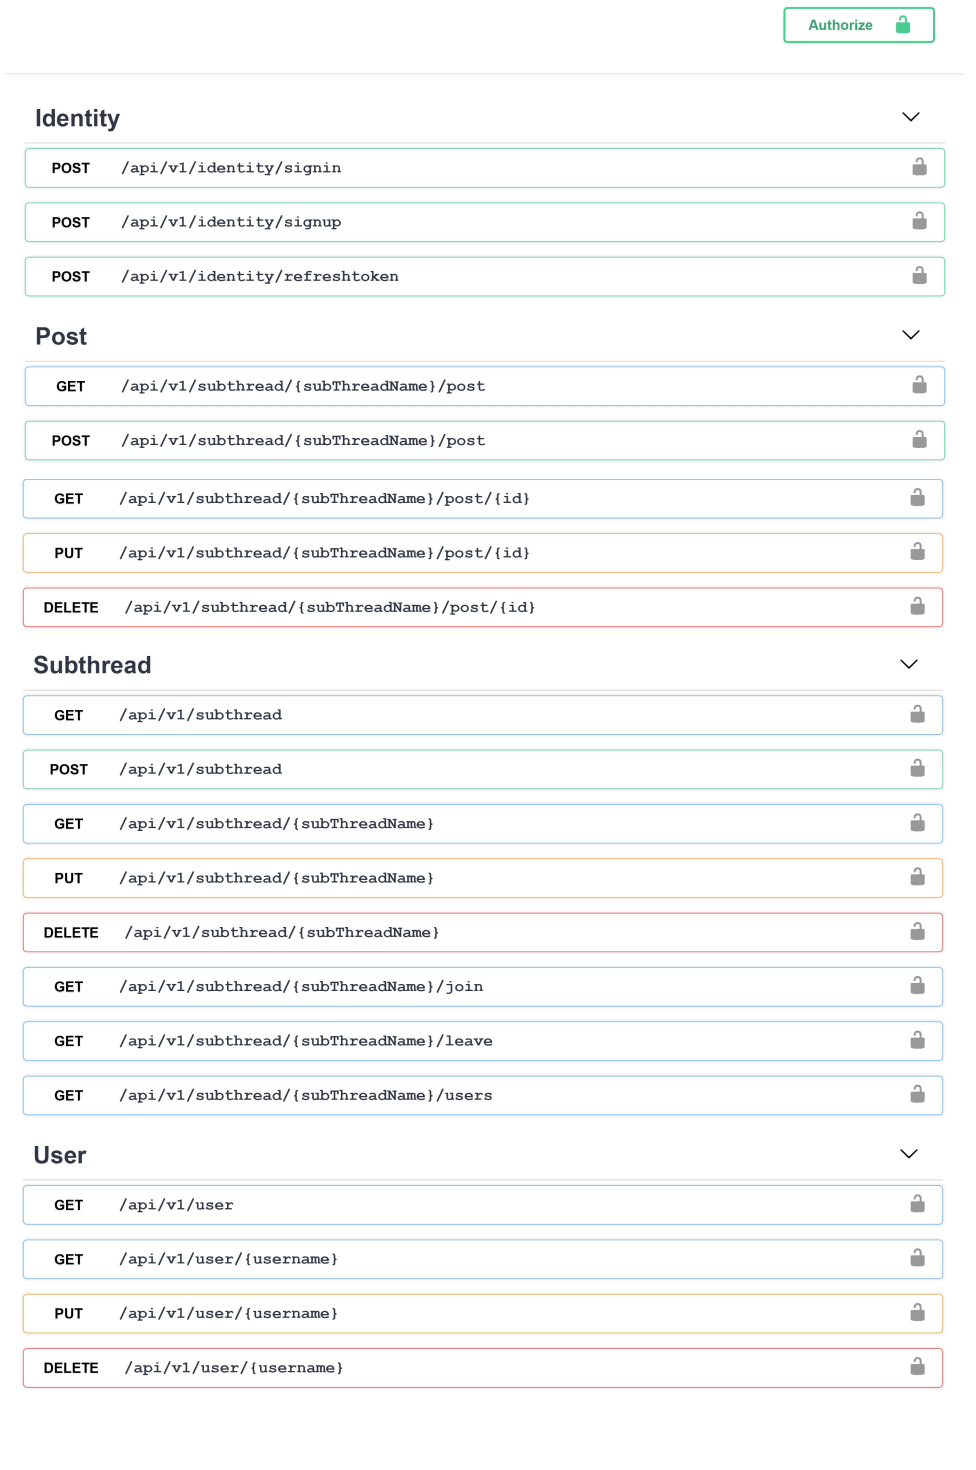
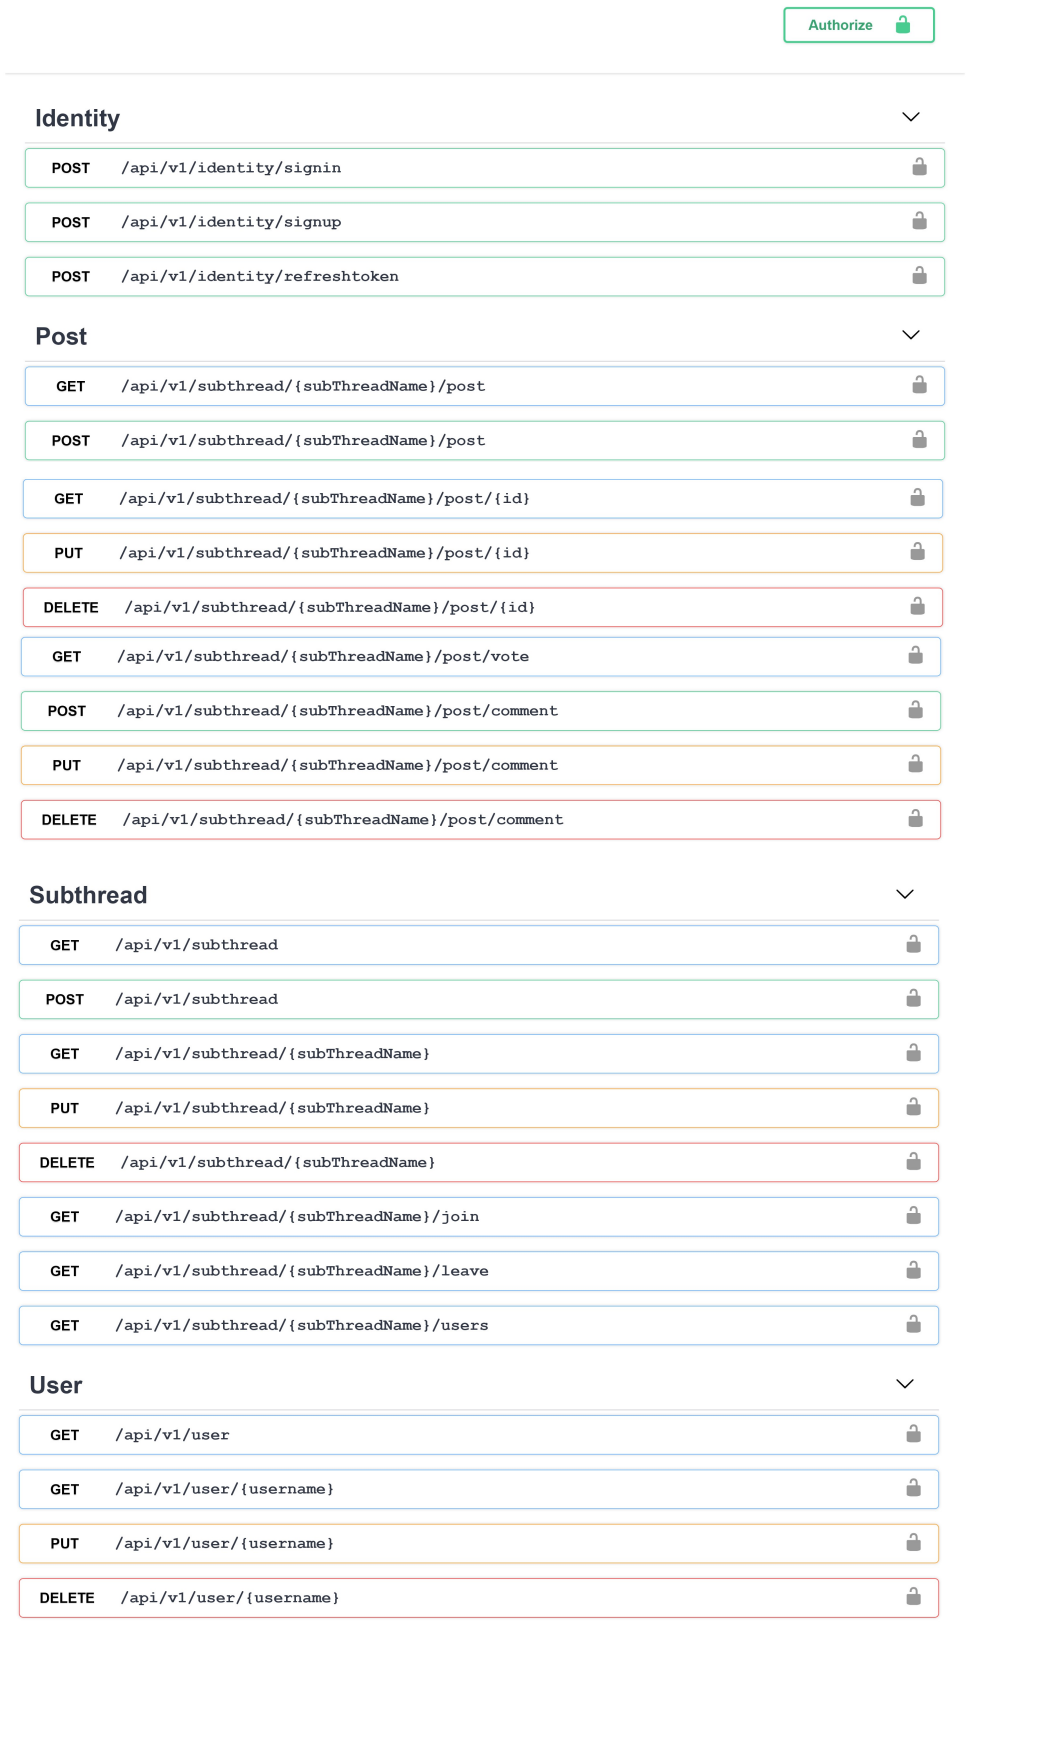
comment & vote api

diff --git a/CommunityDrivenSocialPlatform-Web API/Controllers/V1/PostController.cs b/CommunityDrivenSocialPlatform-Web API/Controllers/V1/PostController.cs
@@ -2,6 +2,7 @@
 using CDSP_API.Contracts.V1.Requests;
 using CDSP_API.Contracts.V1.Responses;
 using CDSP_API.misc;
+using CDSP_API.Model;
 using CDSP_API.Models;
 using CDSP_API.Services;
 using Microsoft.AspNetCore.Authorization;
@@ -20,11 +21,13 @@ namespace CDSP_API.Controllers.V1
         private readonly IUsersService _usersService;
         private readonly IPostService _postService;
         private readonly ILogger<IdentityController> _logger;
-        public PostController(IUsersService usersService, IPostService postService, ILogger<IdentityController> logger)
+        private readonly ICommentService _commentService;
+        public PostController(IUsersService usersService, IPostService postService, ICommentService commentService, ILogger<IdentityController> logger)
         {
             _logger = logger;
             _usersService = usersService;
             _postService = postService;
+            _commentService = commentService;
         }
 
         [HttpGet]
@@ -122,6 +125,68 @@ namespace CDSP_API.Controllers.V1
             return BadRequest(ApiConstant.GenericError);
         }
 
+        [Authorize]
+        [HttpGet(ApiRoutes.Controller.Action.Vote)]
+        public async Task<IActionResult> Vote([FromRoute] int id, [FromBody] VoteRequest voteRequest)
+        {
+            (var ecr, User loggedUser) = await _usersService.GetLoggedUser(User);
 
+            if(voteRequest.voteType == PostVoteEnum.UPVOTE)
+            {
+                await _postService.AddUpVoteAsync(id, loggedUser);
+            }
+            else if(voteRequest.voteType == PostVoteEnum.DOWNVOTE)
+            {
+                await _postService.AddDownVoteAsync(id, loggedUser);
+            }
+
+            _logger.LogError(ecr.ToString(id));
+            return BadRequest(ApiConstant.GenericError);
+        }
+
+        [Authorize]
+        [HttpPost(ApiRoutes.Controller.Action.Comment)]
+        public async Task<IActionResult> CreateComment([FromRoute] int id, [FromBody] CreateCommentRequest createCommentRequest)
+        {
+            (var ecr, User loggedUser) = await _usersService.GetLoggedUser(User);
+            (var _ecr, var comment) = await _commentService.CreateAsync(createCommentRequest.MapToModel(), loggedUser);
+
+            if (_ecr.IsSuccess)
+            {
+                return Ok(new CommentDetailsResponse().MapToReponse(comment));
+            }
+            _logger.LogError(ecr.ToString(id));
+            return BadRequest(ApiConstant.GenericError);
+        }
+
+        [Authorize]
+        [HttpPut(ApiRoutes.Controller.Action.Comment)]
+        public async Task<IActionResult> UpdateComment([FromRoute] int id, [FromBody] UpdateCommentRequest updateCommentRequest)
+        {
+            (var ecr, User loggedUser) = await _usersService.GetLoggedUser(User);
+            (var _ecr, var comment) = await _commentService.UpdateAsync(updateCommentRequest.MapToModel(), loggedUser);
+
+            if (_ecr.IsSuccess)
+            {
+                return Ok(new CommentDetailsResponse().MapToReponse(comment));
+            }
+            _logger.LogError(ecr.ToString(id));
+            return BadRequest(ApiConstant.GenericError);
+        }
+
+        [Authorize]
+        [HttpDelete(ApiRoutes.Controller.Action.Comment)]
+        public async Task<IActionResult> DeleteComment([FromRoute] int id)
+        {
+            (var ecr, User loggedUser) = await _usersService.GetLoggedUser(User);
+            var _ecr = await _commentService.DeleteByIdAsync(id, loggedUser);
+
+            if (_ecr.IsSuccess)
+            {
+                return Ok(ApiConstant.Post.Comment.Deleted);
+            }
+            _logger.LogError(ecr.ToString(id));
+            return BadRequest(ApiConstant.GenericError);
+        }
     }
 }

diff --git a/CommunityDrivenSocialPlatform-Web API/Services/CommentService.cs b/CommunityDrivenSocialPlatform-Web API/Services/CommentService.cs
@@ -41,14 +41,17 @@ namespace CDSP_API.Services
             return (ecr, comment); 
         }
 
-        public async Task<EnityCoreResult> DeleteByIdAsync(int id)
+        public async Task<EnityCoreResult> DeleteByIdAsync(int id, User user)
         {
             EnityCoreResult ecr = new EnityCoreResult();
             try
             {
                 (var _ecr, var comment) = await GetByIdAsync(id);
-                _dataContext.Comment.Remove(comment);
-                await _dataContext.SaveChangesAsync();
+                if(comment.UserId == user.Id)
+                {
+                    _dataContext.Comment.Remove(comment);
+                    await _dataContext.SaveChangesAsync();
+                }
             }
             catch (Exception ex)
             {
@@ -90,15 +93,19 @@ namespace CDSP_API.Services
             return (ecr, comment);
         }
 
-        public async Task<(EnityCoreResult, Comment)> UpdateAsync(Comment comment)
+        public async Task<(EnityCoreResult, Comment)> UpdateAsync(Comment comment, User user)
         {
             EnityCoreResult ecr = new EnityCoreResult();
             try
             {
                 (var _ecr, var _comment) = await GetByIdAsync(comment.Id);
-                _comment.Body=comment.Body;
-                _dataContext.Comment.Update(_comment);
-                await _dataContext.SaveChangesAsync();
+                if (comment.UserId == user.Id)
+                {
+                    _comment.Body = comment.Body;
+                    _dataContext.Comment.Update(_comment);
+                    await _dataContext.SaveChangesAsync();
+                }
+
             }
             catch (Exception ex)
             {

diff --git a/CommunityDrivenSocialPlatform-Web API/Contracts/V1/Requests/CreateCommentRequest.cs b/CommunityDrivenSocialPlatform-Web API/Contracts/V1/Requests/CreateCommentRequest.cs
@@ -1,0 +1,31 @@
+using CDSP_API.Models;
+using CDSP_API.Validation;
+using System;
+using System.ComponentModel.DataAnnotations;
+
+namespace CDSP_API.Contracts.V1.Requests
+{
+    public class CreateCommentRequest
+    {
+        [Required]
+        public string Body { get; set; }
+
+        public DateTime CreatedAt = DateTime.UtcNow;
+
+        public Comment MapToModel()
+        {
+            return new Comment
+            {
+                Body = Body,
+                CreatedAt = CreatedAt,
+            };
+        }
+
+        public override string ToString()
+        {
+            return $"Body: {Body}, CreatedAt: {CreatedAt}";
+        }
+    }
+
+
+}

diff --git a/CommunityDrivenSocialPlatform-Web API/Services/ICommentService.cs b/CommunityDrivenSocialPlatform-Web API/Services/ICommentService.cs
@@ -11,7 +11,7 @@ namespace CDSP_API.Services
         public Task<(EnityCoreResult, Comment)> GetByIdAsync(int id);
         public Task<(EnityCoreResult, List<Comment>)> GetAll(int PostId);
         public Task<(EnityCoreResult, Comment)> CreateAsync(Comment comment, User user);
-        public Task<(EnityCoreResult, Comment)> UpdateAsync(Comment comment);
-        public Task<EnityCoreResult> DeleteByIdAsync(int id);
+        public Task<(EnityCoreResult, Comment)> UpdateAsync(Comment comment, User user);
+        public Task<EnityCoreResult> DeleteByIdAsync(int id, User user);
     }
 }

diff --git a/CommunityDrivenSocialPlatform-Web API/Contracts/V1/Requests/UpdateCommentRequest.cs b/CommunityDrivenSocialPlatform-Web API/Contracts/V1/Requests/UpdateCommentRequest.cs
@@ -1,0 +1,27 @@
+using CDSP_API.Models;
+using CDSP_API.Validation;
+using System;
+using System.ComponentModel.DataAnnotations;
+
+namespace CDSP_API.Contracts.V1.Requests
+{
+    public class UpdateCommentRequest
+    {
+        public string Body { get; set; }
+
+        public Comment MapToModel()
+        {
+            return new Comment
+            {
+                Body = Body,
+            };
+        }
+
+        public override string ToString()
+        {
+            return $"Body: {Body}";
+        }
+    }
+
+
+}

diff --git a/CommunityDrivenSocialPlatform-Web API/misc/ApiConstant.cs b/CommunityDrivenSocialPlatform-Web API/misc/ApiConstant.cs
@@ -49,6 +49,11 @@
         {
             public static readonly string PostDeleted = "Post was successfully deleted";
             public static readonly string NonExistenPost = "Sorry, No post in that name exists.";
+
+            public static class Comment
+            {
+                public static readonly string Deleted = "Comment was successfully deleted";
+            }
         }
 
 

diff --git a/CommunityDrivenSocialPlatform-Web API/Contracts/V1/ApiRoutes.cs b/CommunityDrivenSocialPlatform-Web API/Contracts/V1/ApiRoutes.cs
@@ -17,6 +17,8 @@
                 public const string Signup = "signup";
                 public const string Signin = "signin";
                 public const string RefreshToken = "refreshtoken";
+                public const string Vote = "vote";
+                public const string Comment = "comment";
             }
             public static class RouteVariable
             {

diff --git a/CommunityDrivenSocialPlatform-Web API/Contracts/V1/Requests/VoteRequest.cs b/CommunityDrivenSocialPlatform-Web API/Contracts/V1/Requests/VoteRequest.cs
@@ -1,0 +1,12 @@
+using CDSP_API.Model;
+using System;
+using System.ComponentModel.DataAnnotations;
+
+namespace CDSP_API.Contracts.V1.Requests
+{
+    public class VoteRequest
+    {
+        [Required]
+        public PostVoteEnum voteType { get; set; }
+    }
+}
